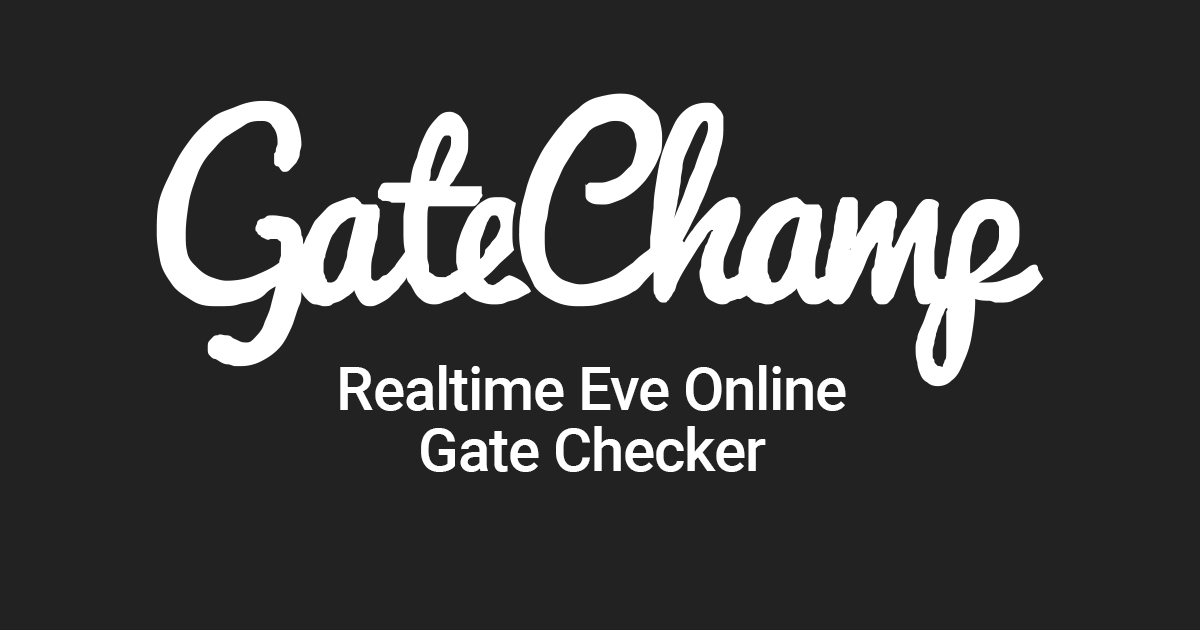
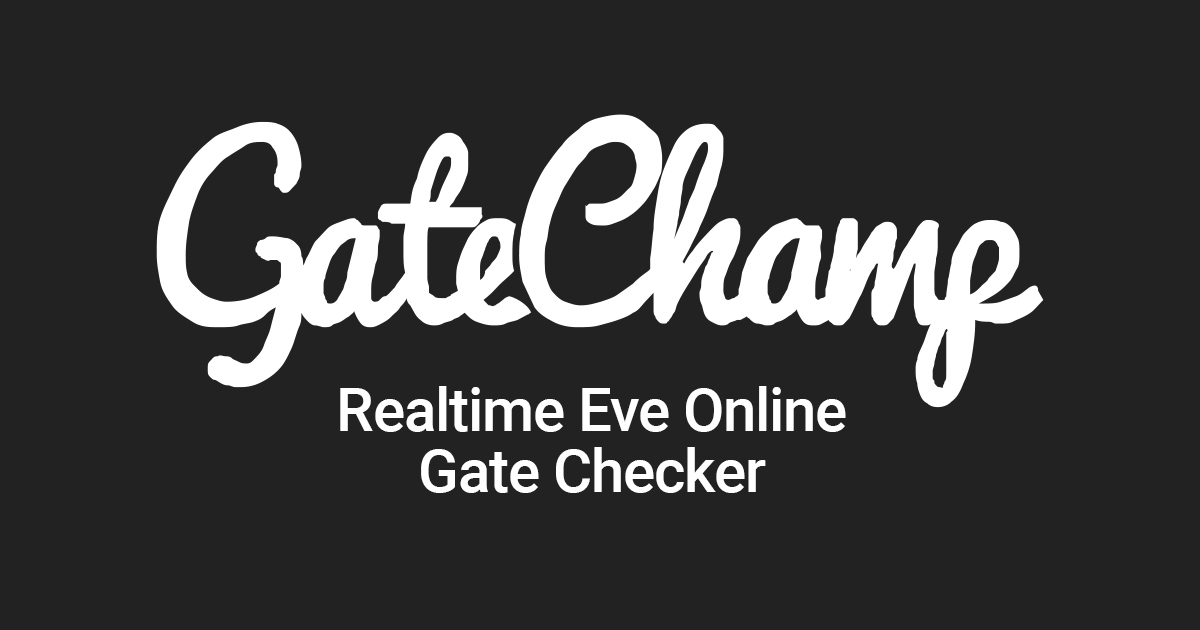
Update ogimage

Changed region(s): [[0.1233, 0.1508, 0.8942, 0.6635], [0.2775, 0.573, 0.7092, 0.7841], [0.1233, 0.1508, 0.2775, 0.3619]]

diff --git a/index.html b/index.html
@@ -67,7 +67,7 @@
       content="GateChamp is a one-stop shop for survival in Eve Online. Route planning, real-time gate camp information, and convenience tools. Never get caught off guard again."
     />
     <meta property="og:type" content="website" />
-    <meta property="og:image" content="https://i.imgur.com/alYWi1w.jpeg" />
+    <meta property="og:image" content="https://i.imgur.com/fa1YGSt.jpg" />
     <meta name="twitter:card" content="summary" />
     <meta name="twitter:site" content="@gatechampapp" />
     <meta name="twitter:title" content="GateChamp" />
@@ -75,7 +75,7 @@
       name="twitter:description"
       content="GateChamp is a one-stop shop for survival in Eve Online. Route planning, real-time gate camp information, and convenience tools. Never get caught off guard again."
     />
-    <meta name="twitter:image" content="https://i.imgur.com/alYWi1w.jpeg" />
+    <meta name="twitter:image" content="https://i.imgur.com/fa1YGSt.jpg" />
   </head>
   <body>
     <div id="root"></div>
